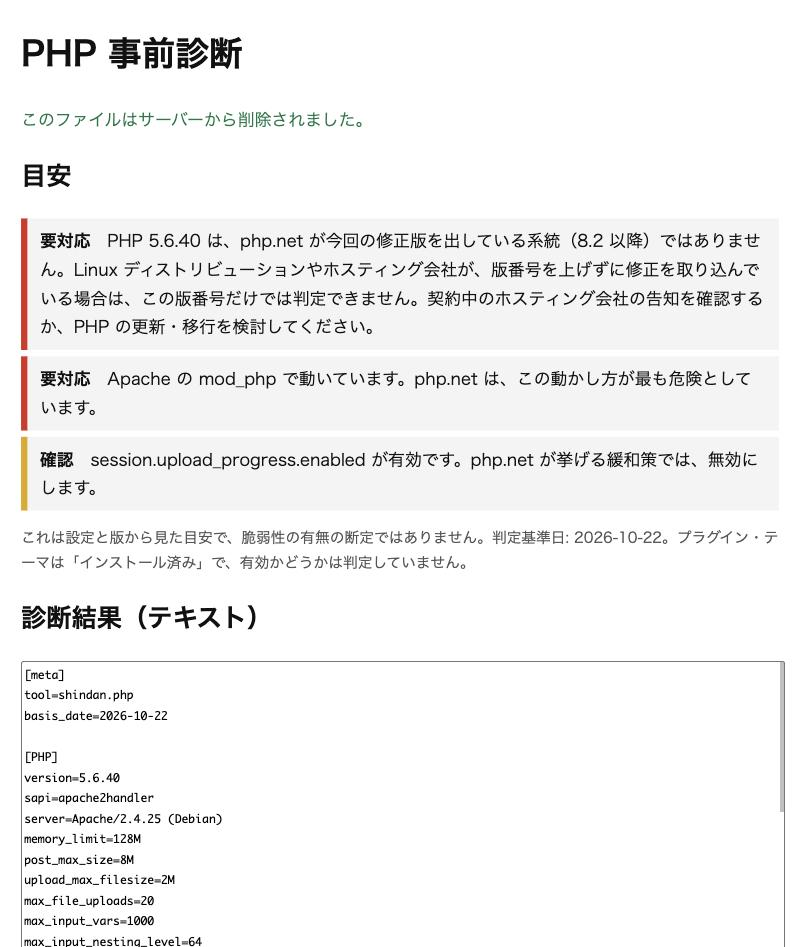
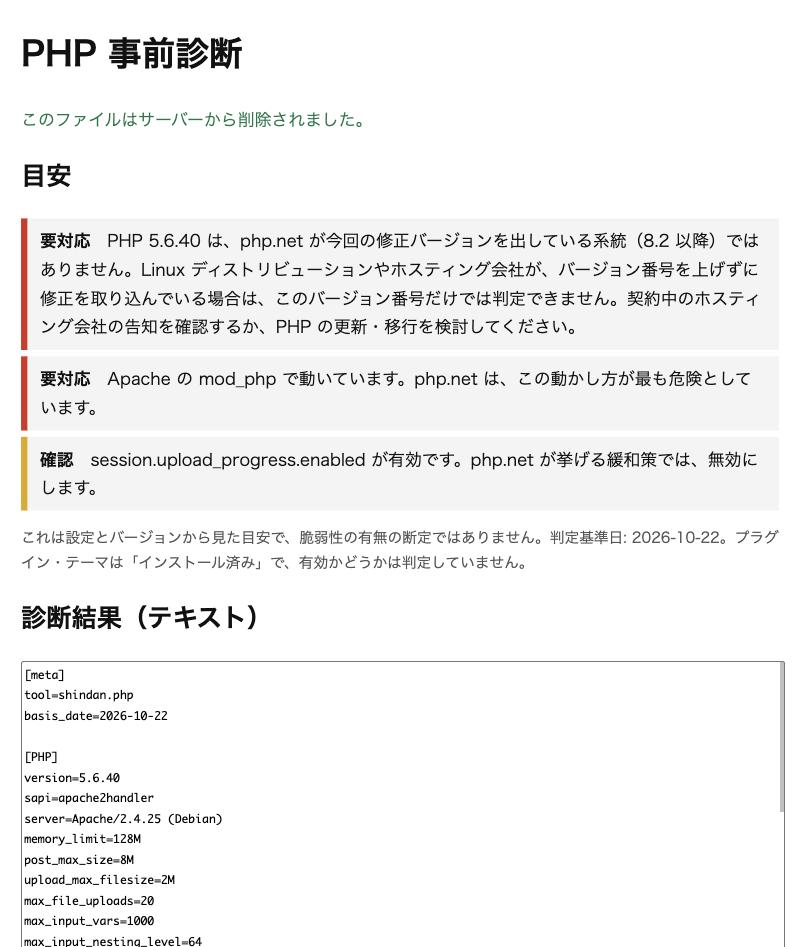
表記を「版」から「バージョン」に統一

Changed region(s): [[0.0312, 0.245, 0.9688, 0.3675], [0.0312, 0.5512, 0.9688, 0.6125]]

diff --git a/shindan.php b/shindan.php
@@ -8,10 +8,10 @@
  *   - このファイル自身以外の、ファイルの書き換え・削除・作成
  *
  * 読み取るもの:
- *   - PHP の版・動かし方（SAPI）・サーバーソフト名（SERVER_SOFTWARE）・関連する ini 設定
- *   - WordPress の版（wp-includes/version.php の先頭 8KB）
+ *   - PHP のバージョン・動かし方（SAPI）・サーバーソフト名（SERVER_SOFTWARE）・関連する ini 設定
+ *   - WordPress のバージョン（wp-includes/version.php の先頭 8KB）
  *   - プラグイン・mu-plugins の各 PHP ファイル、テーマの style.css の「先頭 8KB」（ヘッダ部分）
- *     から、名前・版・親テーマだけを取り出します。ファイルの中身は出力しません。
+ *     から、名前・バージョン・親テーマだけを取り出します。ファイルの中身は出力しません。
  *   - wp-content 直下に、advanced-cache.php などのドロップインがあるかどうか（名前だけ）
  *   読む場所は、このファイルを置いた場所と、その親（最大 3 階層）で見つかった WordPress の中だけです。
  *   シンボリックリンクの先が WordPress の外、または wp-config.php のときは、読みません。
@@ -129,7 +129,7 @@ function hdr($text, $name) {
     return '';
 }
 
-/* 1 つの PHP ファイルからプラグインのヘッダを読む。見つかれば array(名前, 版)、無ければ false */
+/* 1 つの PHP ファイルからプラグインのヘッダを読む。見つかれば array(名前, バージョン)、無ければ false */
 function plugin_header($path, $rootReal) {
     if (!isf($path) || !inside($path, $rootReal)) { return false; }
     $head = rd($path, 8192);
@@ -166,24 +166,24 @@ foreach (array('memory_limit', 'post_max_size', 'upload_max_filesize', 'max_file
     }
 }
 
-/* php.net が 2026-10-21 に出した修正版（CVE-2026-109618 / 109619）。版を足すときはここだけ直す */
+/* php.net が 2026-10-21 に出した修正バージョン（CVE-2026-109618 / 109619）。バージョンを足すときはここだけ直す */
 $fixed = array('8.2' => '8.2.35', '8.3' => '8.3.36', '8.4' => '8.4.27', '8.5' => '8.5.12');
 $parts = explode('.', $phpv);
 $branch = $parts[0] . '.' . (isset($parts[1]) ? (int)$parts[1] : 0);
 $suffix = (bool)preg_match('/^[0-9]+\.[0-9]+\.[0-9]+[^0-9.]/', $phpv);
 
 if (version_compare($phpv, '8.2', '<')) {
-    $notes[] = array('high', 'PHP ' . $phpv . ' は、php.net が今回の修正版を出している系統（8.2 以降）ではありません。'
-        . 'Linux ディストリビューションやホスティング会社が、版番号を上げずに修正を取り込んでいる場合は、この版番号だけでは判定できません。'
+    $notes[] = array('high', 'PHP ' . $phpv . ' は、php.net が今回の修正バージョンを出している系統（8.2 以降）ではありません。'
+        . 'Linux ディストリビューションやホスティング会社が、バージョン番号を上げずに修正を取り込んでいる場合は、このバージョン番号だけでは判定できません。'
         . '契約中のホスティング会社の告知を確認するか、PHP の更新・移行を検討してください。');
 } elseif (isset($fixed[$branch])) {
     if (version_compare($phpv, $fixed[$branch], '>=')) {
-        $notes[] = array('ok', 'PHP ' . $phpv . ' は、php.net の修正版（' . $fixed[$branch] . '）以降です。');
+        $notes[] = array('ok', 'PHP ' . $phpv . ' は、php.net の修正バージョン（' . $fixed[$branch] . '）以降です。');
     } else {
-        $notes[] = array('high', 'PHP ' . $phpv . ' は、php.net の修正版（' . $fixed[$branch] . '）より前です。更新が必要です。');
+        $notes[] = array('high', 'PHP ' . $phpv . ' は、php.net の修正バージョン（' . $fixed[$branch] . '）より前です。更新が必要です。');
     }
     if ($suffix) {
-        $notes[] = array('mid', '版番号に配布元の付記があります。修正の取り込み方は配布元によって異なるため、配布元の告知もご確認ください。');
+        $notes[] = array('mid', 'バージョン番号に配布元の付記があります。修正の取り込み方は配布元によって異なるため、配布元の告知もご確認ください。');
     }
 } else {
     $notes[] = array('mid', 'PHP ' . $phpv . ' は、このファイルの判定表にない系統です（判定基準日: ' . $BASIS_DATE . '）。判定できません。');
@@ -357,7 +357,7 @@ $labels = array('high' => '要対応', 'mid' => '確認', 'ok' => '問題なし'
 <?php foreach ($notes as $n) { ?>
 <div class="n <?php echo h($n[0]); ?>"><b><?php echo h($labels[$n[0]]); ?></b>　<?php echo h($n[1]); ?></div>
 <?php } ?>
-<p style="font-size:14px;color:#555">これは設定と版から見た目安で、脆弱性の有無の断定ではありません。判定基準日: <?php echo h($BASIS_DATE); ?>。プラグイン・テーマは「インストール済み」で、有効かどうかは判定していません。</p>
+<p style="font-size:14px;color:#555">これは設定とバージョンから見た目安で、脆弱性の有無の断定ではありません。判定基準日: <?php echo h($BASIS_DATE); ?>。プラグイン・テーマは「インストール済み」で、有効かどうかは判定していません。</p>
 <h2>診断結果（テキスト）</h2>
 <textarea readonly onclick="this.select()"><?php echo h($report); ?></textarea>
 <p style="font-size:13px;color:#555">この内容は、サイトの構成を示す情報です。診断を依頼している場合は、依頼先から指定された方法でお渡しください。公開の掲示板やチャットには、貼らないでください。<?php if ($state === 'deleted') { ?>この画面を閉じると、内容は再表示できません（ファイルは削除済みのため）。<?php } ?></p>
